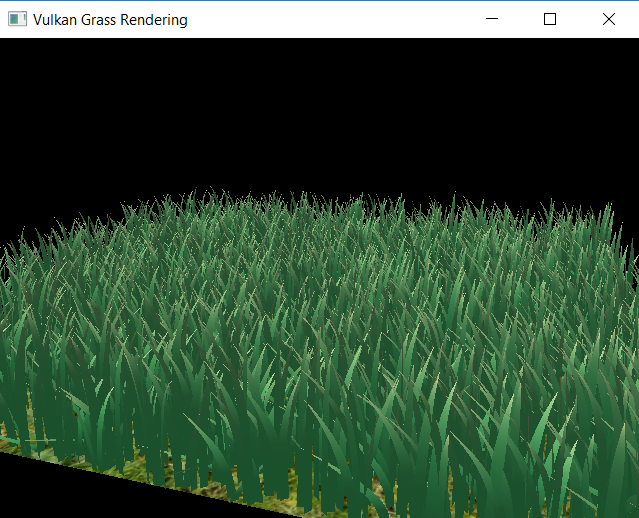
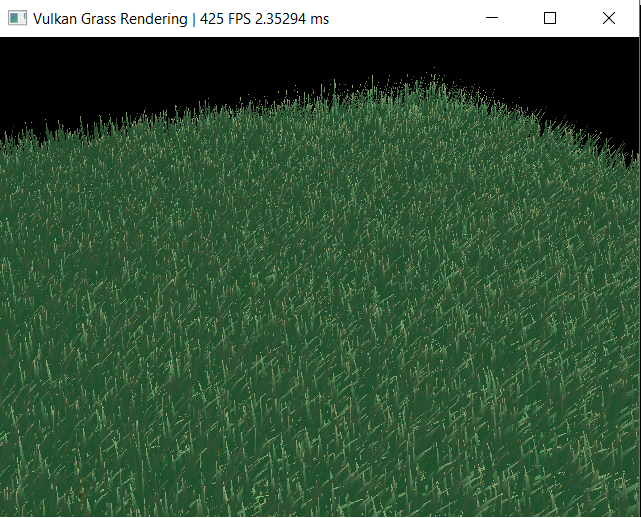
update README.md

diff --git a/src/Blades.h b/src/Blades.h
@@ -4,7 +4,7 @@
 #include <array>
 #include "Model.h"
 
-constexpr static unsigned int NUM_BLADES = 1 << 19;
+constexpr static unsigned int NUM_BLADES = 1 << 22;
 constexpr static float MIN_HEIGHT = 1.3f;
 constexpr static float MAX_HEIGHT = 2.5f;
 constexpr static float MIN_WIDTH = 0.1f;

diff --git a/README.md b/README.md
@@ -5,26 +5,26 @@ Project 6 - Vulkan Grass Rendering**
 * Tested on: Windows 10, i7-6700HQ @ 2.6GHz 8GB, GTX 960M 2GB  Personal
 
 **Overview**<br />
-For implementation details see:
+For implementation details see:<br />
 https://www.cg.tuwien.ac.at/research/publications/2017/JAHRMANN-2017-RRTG/JAHRMANN-2017-RRTG-draft.pdfs
-
-For tesselation details see:
+<br />
+For tesselation details see:<br />
 http://in2gpu.com/2014/07/12/tessellation-tutorial-opengl-4-3/
 http://prideout.net/blog/?p=48#levels
 
 
 **Highlights**<br />
-Several culling optimizations were used to reduce computation cost: orientation culling, frustum culling and distance culling. To reduce triangle count, tesselation level is reduced the further the blade is away from the camera. Performance comparisons between culling techniques are sensitive to the setup of the scene but provide insight into how much work is being removed by these culling techniques.
+Several culling optimizations were used to reduce computation cost: orientation culling, frustum culling and distance culling. To reduce triangle count, tesselation level is reduced the further the blade is away from the camera. Performance comparisons between culling techniques are sensitive to the setup of the scene but provide insight into how much work is being removed by these culling techniques. For the scene provided frustum culling was the most effective at improving performance, followed orientation, then distance. This makes sense as frustum culling excludes most of the scene from the computation. Orientation and distance are still doing work for grass blades that don't show up on the screen and are more scene dependent. Distance could be more effective than orientation for very large scenes but for the scene that was rendered this was not the case. Tessaltion falloff based on distance from camera has noticable performance improvements when there are large numbers of grass blades to render but for realstic amounts of grass, it's not that useful. 
 <br />
 <br />
 
 **Vulkan Grass Rendering**<br />
 ![](img/thegrass.gif)
 
-**Screenshot**
+**Screenshot**<br />
 ![](img/grass.png)
 
-**Data**<br />
+# Data<br />
 **Performance improvement due to all culling techniques**<br />
 ![](img/graphcullvsnocull.png)
 
